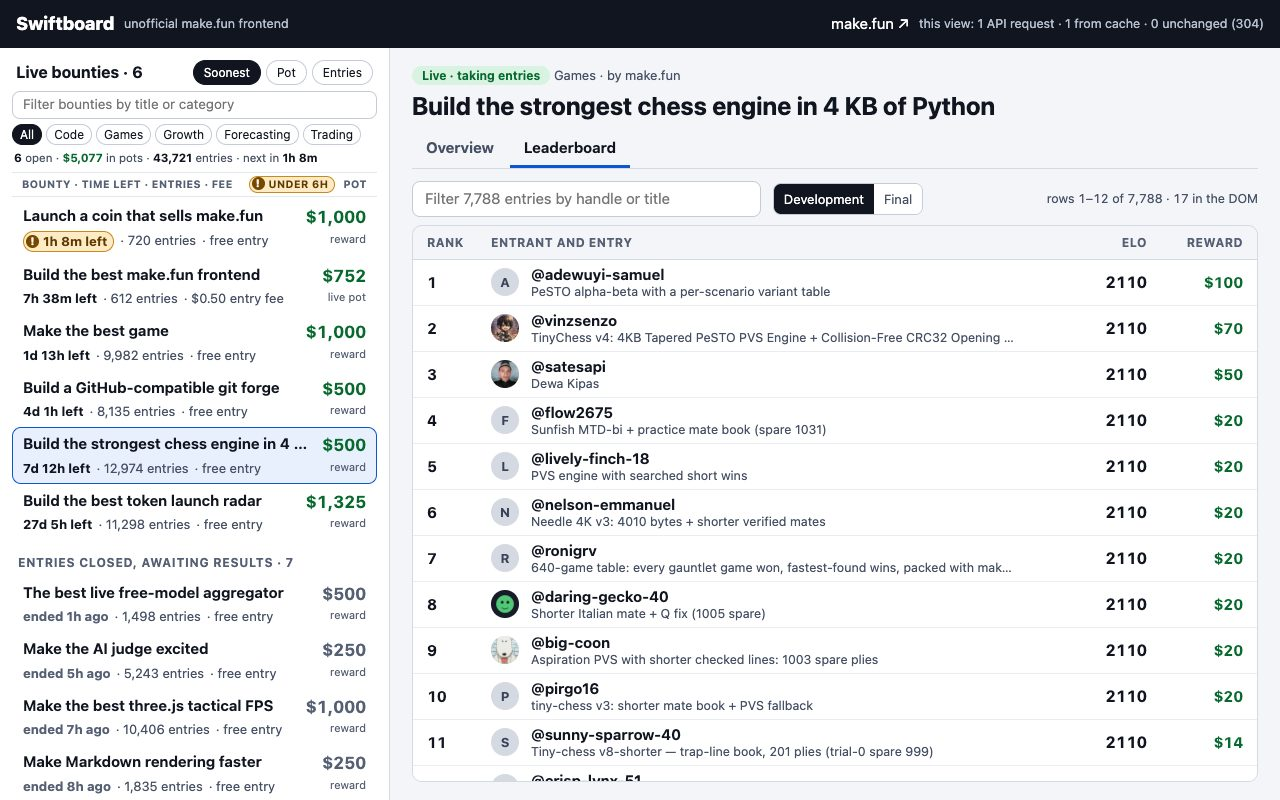
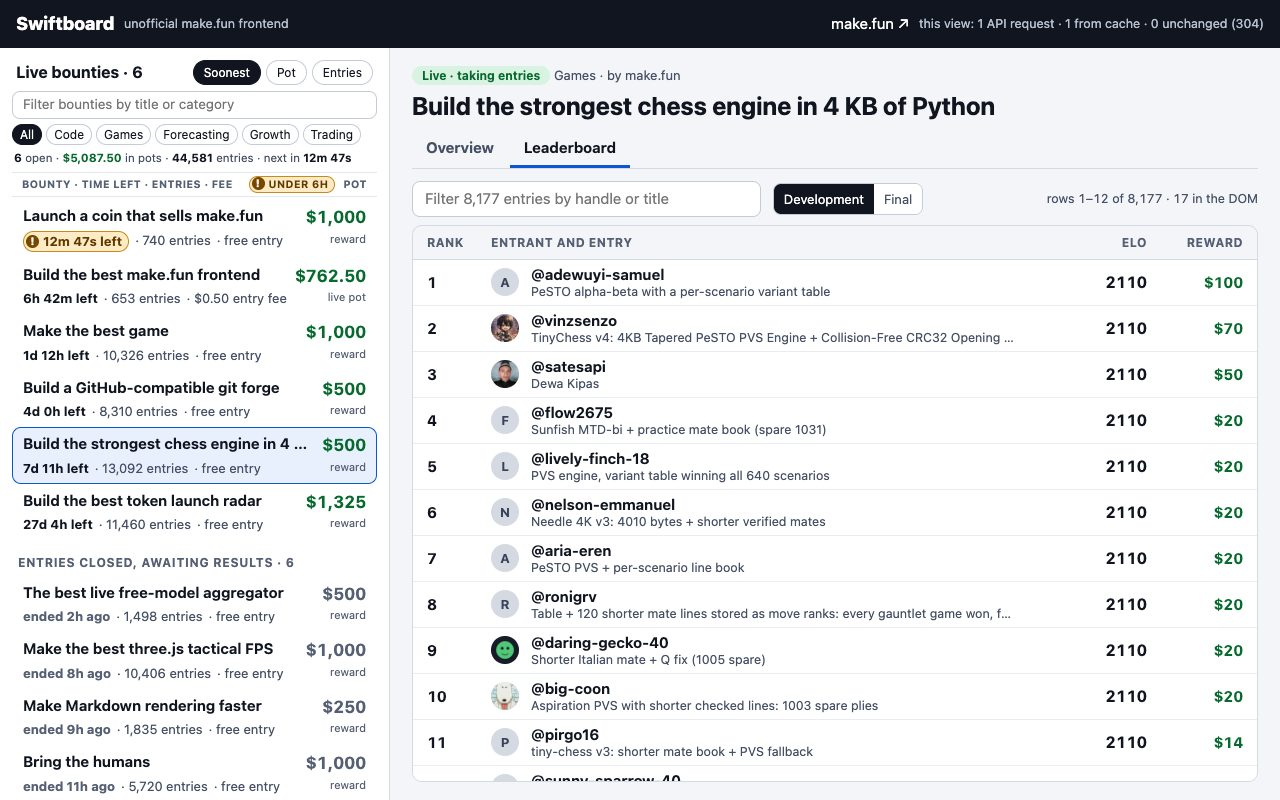
Phase line with a now marker in the dates box, payout bars in the rewards table, new screenshots
The bounty page's dates box opens with the bounty's phases as one track, from the API's own
dates: each phase fills by the share of it that has elapsed, says its state in words, and a
'now' marker stands at the current time. It moves with the page's one-second tick, without a
request. The Opened and per-phase rows are folded into it, so the box is shorter than before.

Each 'Pays now' amount has a thin bar as long as that place's payout is of first place's.

diff --git a/app/views.js b/app/views.js
@@ -43,6 +43,9 @@ export function patchHtml(el, html) {
 export function patchCountdowns() {
   for (const el of document.querySelectorAll('[data-until]')) setText(el, timeLeft(el.dataset.until, el.dataset.exact));
   for (const el of document.querySelectorAll('[data-next]')) setText(el, closesIn(el.dataset.next));
+  // The phase line moves with the clock: the dates box is written again only when its markup has changed.
+  const page = $('bounty');
+  if (page._bounty && !page.hidden) patchHtml(page._f.dates, datesList(page._bounty));
   if (listed.length && listed.filter(isLive).length !== liveCount) {
     paintBoard(listed);
     const shown = $('bounty')._bounty;
@@ -340,8 +343,11 @@ function rewardsTable(b) {
     if (last && last.base === +base && last.now === +now) last.to = place;
     else groups.push({ from: place, to: place, base: +base, share: +share, now: +now });
   }
+  // Under each amount, a thin bar as long as that place's payout is of the first place's.
+  const first = groups[0] && groups[0].now;
+  const bar = (g) => (first > 0 ? `<u style="width:${Math.min(100, (g.now / first) * 100).toFixed(1)}%"></u>` : '');
   const rows = groups.map(
-    (g) => `<tr><td>${ordinal(g.from)}${g.to > g.from ? ' – ' + ordinal(g.to) : ''}</td><td>${usd(g.base)}</td><td>${g.share ? '+' + usd(g.share) : '–'}</td><td><b>${usd(g.now)}</b>${g.to > g.from ? ' each' : ''}</td></tr>`,
+    (g) => `<tr><td>${ordinal(g.from)}${g.to > g.from ? ' – ' + ordinal(g.to) : ''}</td><td>${usd(g.base)}</td><td>${g.share ? '+' + usd(g.share) : '–'}</td><td class=pay><b>${usd(g.now)}</b>${g.to > g.from ? ' each' : ''}${bar(g)}</td></tr>`,
   );
   return `<tr><th>Place</th><th>Reward</th><th>Fee share</th><th>Pays now</th></tr>${rows.join('')}
 <tr class=sum><td>${plural(b.rewards.length, 'place', 'places')}</td><td>${usd(b.reward)}</td><td>${+b.fees ? '+' + usd(b.fees) : '–'}</td><td><b>${usd(b.pot)}</b> pot</td></tr>`;
@@ -349,14 +355,15 @@ function rewardsTable(b) {
 
 function datesList(b) {
   const rows = [['Status', `<span class="pill ${statusOf(b)[0]}">${statusOf(b)[1]}</span>`]];
-  if (b.opens) rows.push(['Opened', when(b.opens)]);
+  // The phase line above the list states each phase's dates; without one, the opening date keeps its row.
+  const line = phaseLine(b);
+  if (b.opens && !line) rows.push(['Opened', when(b.opens)]);
   rows.push(['Deadline', `${when(b.deadline)} · <span data-until="${esc(b.deadline)}">${timeLeft(b.deadline)}</span>`]);
-  for (const p of b.phases || []) rows.push([esc(p.title),`${hour(p.starts)} → ${when(p.ends)}${p.finalized ? ' · finalized' : ''}`]);
   if (b.resolved) rows.push(['Results', when(b.resolved)]);
   if (b.winner) rows.push(['Winner', `<a href="#/u/${encodeURIComponent(b.winner)}">@${esc(b.winner)}</a>`]);
   if (b.metric) rows.push(['Ranked by', esc(b.metric)]);
   if (b.published) rows.push(['Published', when(b.published)]);
-  return rows.map(([name, value]) => `<dt>${name}</dt><dd>${value}</dd>`).join('');
+  return line + rows.map(([name, value]) => `<dt>${name}</dt><dd>${value}</dd>`).join('');
 }
 
 document.head.append(
@@ -386,6 +393,11 @@ button{font:inherit;font-size:12px;padding:3px 10px;border:1px solid #c5ccd8;bor
 .cols{display:grid;grid-template-columns:minmax(0,1.05fr) minmax(0,1fr);gap:0 18px}
 table{width:100%;border-spacing:0}th,td{padding:5px 12px;text-align:right;white-space:nowrap;border-top:1px solid #e4e8ee}tr:first-child th{border:0}th{font-size:12px;color:#566074}th:first-child,td:first-child{text-align:left}.sum td{background:#f3f5f8;font-weight:600}
 dl{display:grid;grid-template-columns:auto minmax(0,1fr);gap:6px 14px;margin:0;padding:9px 12px;font-size:14px}dt{color:#566074}dd{margin:0;font-weight:600}
+.pay{padding-bottom:2px}.pay u{display:block;height:3px;margin-left:auto;border-radius:2px;background:#08692f;opacity:.38}
+.phline{grid-column:1/-1;display:flex;gap:4px;padding:16px 0 2px;font-size:12px;color:#566074}.ph{flex:1;min-width:0}.ph b{color:#10151f}
+.ph u{display:block;position:relative;height:6px;margin-bottom:4px;border-radius:3px;background:#e2e6ed}.ph s{display:block;height:100%;border-radius:3px;background:#08692f}
+.ph em{position:absolute;top:-16px;transform:translateX(-50%);padding:0 4px;border-radius:3px;background:#10151f;color:#fff;font-style:normal;font-size:9.5px;font-weight:800;line-height:13px;letter-spacing:.05em;text-transform:uppercase}.ph em:after{content:"";position:absolute;left:50%;top:13px;width:2px;height:11px;margin-left:-1px;background:#10151f}
+.ph span{display:block;white-space:nowrap;overflow:hidden;text-overflow:ellipsis}.ph span+span{font-size:11.5px;font-variant-numeric:tabular-nums}
 .md{padding:2px 14px;overflow-wrap:anywhere}.md h3{font-size:15px;margin:14px 0 6px}.md p,.md ul,.md ol{margin:8px 0}.md code{padding:1px 4px;border-radius:4px;background:#eef1f5;font-size:13px}
 details{margin:14px 0 30px}summary{padding:8px 2px;font-weight:650;cursor:pointer}
 .av{position:relative;display:inline-grid;place-items:center;flex:none;width:28px;height:28px;border-radius:50%;background:#d5dae2;color:#39425a;font-size:13px;font-weight:700;overflow:hidden}.av i{font-style:normal}.av img{position:absolute;inset:0;width:100%;height:100%;object-fit:cover}
@@ -402,7 +414,7 @@ details{margin:14px 0 30px}summary{padding:8px 2px;font-weight:650;cursor:pointe
 .top5{display:grid;grid-template-columns:repeat(5,minmax(0,1fr));gap:10px;margin:0;padding:0;list-style:none}.top5+p{min-height:63px;margin:0;color:#465064}
 .top5 li{display:grid;grid-template-columns:auto minmax(0,1fr);gap:0 7px;align-items:baseline;padding:7px 8px 7px 9px;background:#fff;border:1px solid #d5dae2;border-radius:10px}
 .top5 i{grid-area:2/1;font-style:normal;font-size:13px;font-weight:700;color:#566074}.top5 a{grid-area:1/1/2/3;font-size:13px;line-height:22px;font-weight:650;color:#10151f;text-decoration:none;white-space:nowrap;overflow:hidden;text-overflow:ellipsis}.top5 a:hover{text-decoration:underline}.top5 .long{font-size:11.5px;letter-spacing:-.25px}.top5 b{grid-area:2/2;font-size:17px}
-@media(max-width:820px){body{grid-template-rows:auto minmax(0,1fr)}header{flex-wrap:wrap;row-gap:0;padding-block:6px}#net{flex-basis:100%;overflow:hidden;text-overflow:ellipsis;font-size:10.5px}.top5{grid-template-columns:minmax(0,1fr);gap:4px}.top5 li{grid-template-columns:30px minmax(0,1fr) auto;padding:5px 12px}.top5 i,.top5 a,.top5 b{grid-area:auto}.top5 a,.top5 .long{font-size:15px;letter-spacing:0}.toph a{font-size:12px}.back{display:inline-block}.stats{grid-template-columns:1fr 1fr}.cols{grid-template-columns:minmax(0,1fr)}h1{font-size:21px}.stat b{font-size:20px}th,td{padding:5px 8px}}`,
+@media(max-width:820px){body{grid-template-rows:auto minmax(0,1fr)}header{flex-wrap:wrap;row-gap:0;padding-block:6px}#net{flex-basis:100%;overflow:hidden;text-overflow:ellipsis;font-size:10.5px}.top5{grid-template-columns:minmax(0,1fr);gap:4px}.top5 li{grid-template-columns:30px minmax(0,1fr) auto;padding:5px 12px}.top5 i,.top5 a,.top5 b{grid-area:auto}.top5 a,.top5 .long{font-size:15px;letter-spacing:0}.toph a{font-size:12px}.back{display:inline-block}.stats{grid-template-columns:1fr 1fr}.cols{grid-template-columns:minmax(0,1fr)}h1{font-size:21px}.stat b{font-size:20px}th,td{padding:5px 8px}.ph span{white-space:normal}}`,
   }),
 );
 
@@ -525,4 +537,33 @@ function keepLaterNumbers(row) {
   ownNumbers.delete(row.slug);
   const page = $('bounty');
   if (!page.hidden && page._bounty && page._bounty !== row && page._bounty.slug === row.slug) paintBounty({ ...page._bounty, ...sharedNumbers(row) });
+}
+
+// ---------------------------------------------------------------- a bounty's phase line
+
+/**
+ * The bounty's phases as one track, in the API's order and with its dates: each phase is a segment filled by the
+ * share of it that has elapsed, and a "now" marker stands where the current time falls between that phase's start
+ * and end. Each segment also says its state in words. Past the last end the track is full and has no marker.
+ */
+function phaseLine(b) {
+  const now = Date.now();
+  const phases = (b.phases || []).filter((p) => Date.parse(p.ends) > Date.parse(p.starts));
+  if (!phases.length) return '';
+  // The marker stands in the last phase to have started (at its end, between two phases), or at the very start.
+  let current = 0;
+  phases.forEach((p, i) => now >= Date.parse(p.starts) && (current = i));
+  const over = now >= Date.parse(phases[phases.length - 1].ends);
+  // Where a narrow screen wraps the labels, a state or a date stays in one piece.
+  const tied = (text) => text.replace(/ /g, '&nbsp;');
+  const cells = phases.map((p, i) => {
+    const from = Date.parse(p.starts);
+    const part = Math.min(1, Math.max(0, (now - from) / (Date.parse(p.ends) - from)));
+    const share = (part * 100).toFixed(1);
+    const state = p.finalized ? 'finalized' : part >= 1 ? 'complete' : part > 0 ? Math.floor(part * 100) + '% elapsed' : 'starts in ' + closesIn(p.starts);
+    const text = `${esc(p.title)} · ${state}`;
+    const mark = !over && i === current ? `<em style="left:${share}%">now</em>` : '';
+    return `<div class=ph title="${text}: ${hour(p.starts)} → ${when(p.ends)}"><u><s style="width:${share}%"></s>${mark}</u><span><b>${esc(p.title)}</b> ·&nbsp;${tied(state)}</span><span>${tied(hour(p.starts))}&nbsp;→ ${tied(hour(p.ends))}</span></div>`;
+  });
+  return `<div class=phline>${cells.join('')}</div>`;
 }
